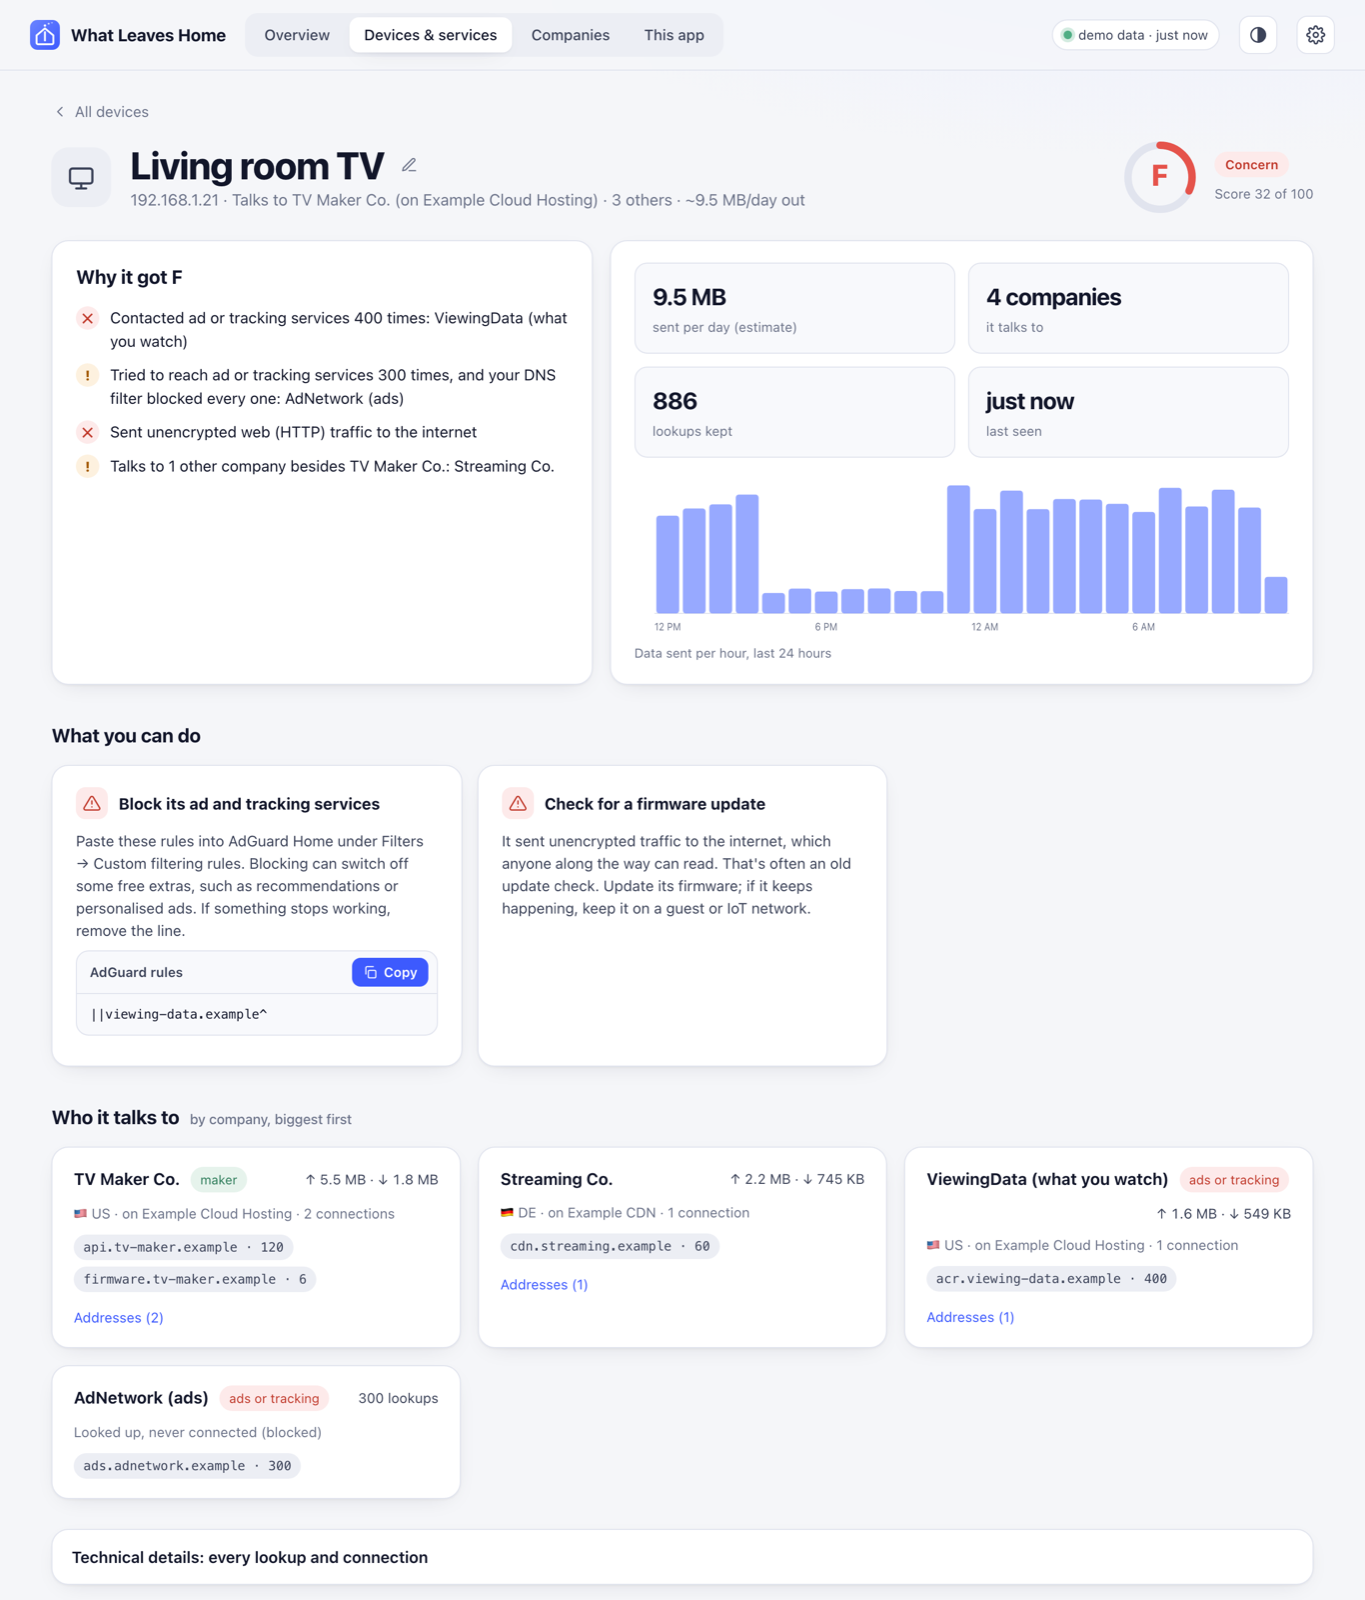
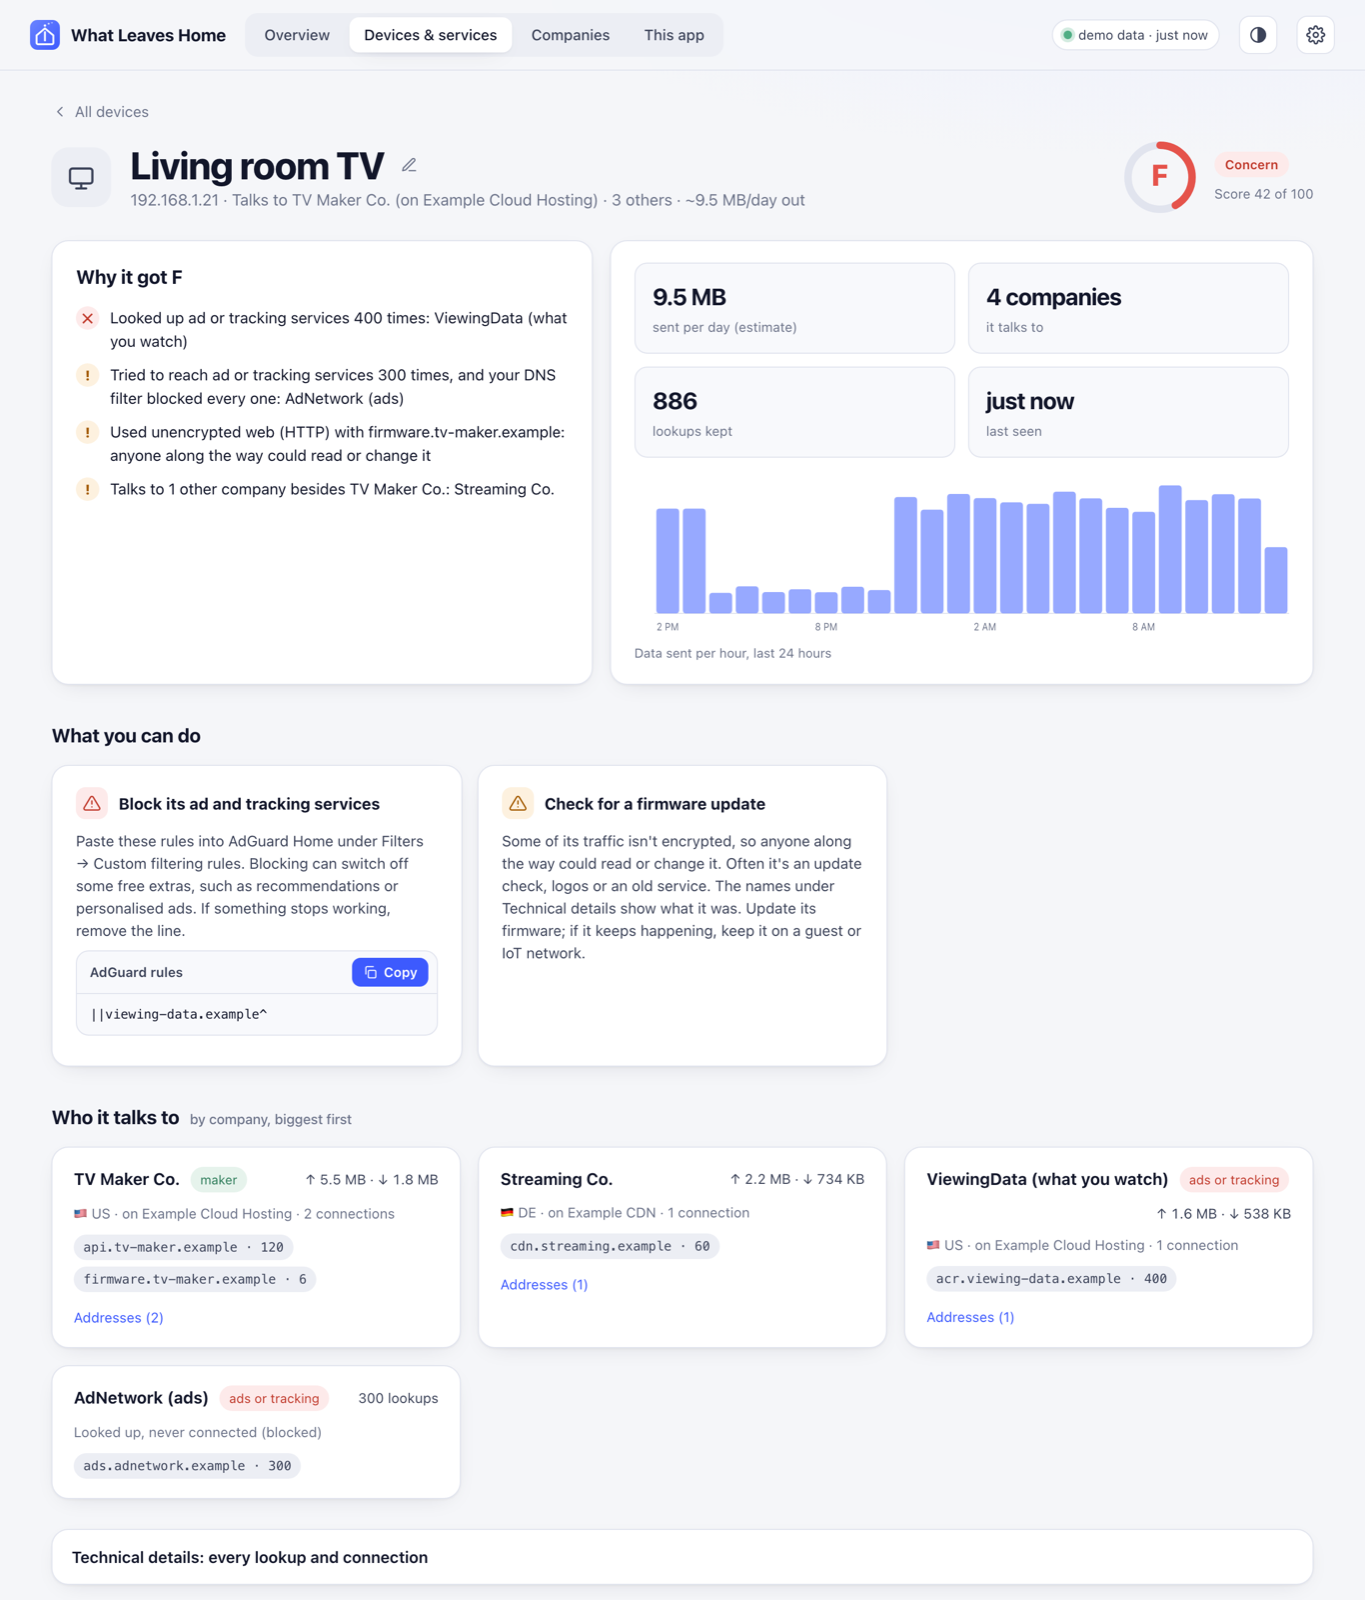
Be exact about TV findings: lookups, not contacts; HTTP says what for
Checking the first TV data showed two findings overstated:

- 'Unencrypted traffic' counted certificate checks (OCSP at DigiCert),
  which are plain HTTP by design on every device, and didn't say what the
  rest was: channel logos and an update download, a weakness rather than
  data about you. Certificate checks no longer count. The finding names
  what used plain HTTP, and weighs 10 points instead of 20.
- 'Contacted ad or tracking services N times' counted lookups. It now
  says 'looked up', which is what was seen.

README wording, the grading note and the screenshots follow.

diff --git a/whatleaves/analysis.py b/whatleaves/analysis.py
@@ -25,6 +25,13 @@ DOH_NAMES = ("dns.google", "cloudflare-dns.com", "one.one.one.one", "dns.quad9.n
              "dns.nextdns.io", "doh.dns.apple.com", "mozilla.cloudflare-dns.com")
 
 
+def plaintext_conns(raw):
+    """Unencrypted connections to the internet (web, FTP, Telnet, video). Certificate checks
+    (OCSP, CRL) use plain HTTP by design, on every device, so they don't count."""
+    return [c for c in raw["connections"] if not c["local"] and c["proto"] == "tcp" and c["dport"] in PLAINTEXT_PORTS
+            and not (c["names"] and all(is_cert_check(n) for n in c["names"]))]
+
+
 def outside_dns(raw):
     """Connections where a device asks a DNS server on the internet itself, going around the
     DNS filter: plain DNS (53), DNS over TLS (853), or a known DNS-over-HTTPS service.
@@ -208,8 +215,8 @@ def assess(raw, comps, server=False):
     others = [c for c in makers[1:] if not (own and c["company"] in CLOUD_PLATFORMS)]
     bypass = outside_dns(raw)
     unexplained = [c for c in raw["connections"] if not c["local"] and not c["names"] and c not in bypass]
-    plaintext = sorted({c["dport"] for c in raw["connections"]
-                        if not c["local"] and c["proto"] == "tcp" and c["dport"] in PLAINTEXT_PORTS})
+    plain = plaintext_conns(raw)
+    plaintext = sorted({c["dport"] for c in plain})
     remote = [c for c in raw["connections"] if not c["local"]]
     days = _span_days(min((c["first"] for c in remote), default=None), max((c["last"] for c in remote), default=None))
     per_day = sum(c["bytes_out"] for c in remote) / days
@@ -218,16 +225,19 @@ def assess(raw, comps, server=False):
         n = sum(c["lookups"] for c in tracking)
         score -= 35 if n >= 20 else 20
         names = ", ".join(c["company"] for c in tracking[:3])
-        reasons.append({"level": "bad", "text": f"Contacted ad or tracking services {plural(n, 'time')}: {names}"})
+        reasons.append({"level": "bad", "text": f"Looked up ad or tracking services {plural(n, 'time')}: {names}"})
     if tried:
         n = sum(c["lookups"] for c in tried)
         score -= 5
         reasons.append({"level": "warn", "text": f"Tried to reach ad or tracking services {plural(n, 'time')}, and your DNS filter "
                         f"blocked every one: {', '.join(c['company'] for c in tried[:3])}"})
     if plaintext:
-        score -= 20
-        reasons.append({"level": "bad", "text": "Sent unencrypted " +
-                        ", ".join(PLAINTEXT_PORTS[p] for p in plaintext) + " traffic to the internet"})
+        # What it was for matters: logos or an update download are a weakness, not data about you.
+        score -= 10
+        where = sorted({c["names"][0] if c["names"] else c["dst"] for c in plain})
+        reasons.append({"level": "warn", "text": "Used unencrypted " + ", ".join(PLAINTEXT_PORTS[p] for p in plaintext)
+                        + " with " + ", ".join(where[:3]) + (f" and {len(where) - 3} more" if len(where) > 3 else "")
+                        + ": anyone along the way could read or change it"})
     if others and not server:
         score -= min(8 * len(others), 24)
         reasons.append({"level": "warn", "text": f"Talks to {len(others)} other "
@@ -289,11 +299,12 @@ def actions_for(raw, comps, a):
                      "text": "Your AdGuard is already refusing its ad and tracking lookups: "
                              + ", ".join(sorted(already)) + ".", "rules": []})
     remote = [c for c in raw["connections"] if not c["local"]]
-    if any(c["proto"] == "tcp" and c["dport"] in PLAINTEXT_PORTS for c in remote):
-        acts.append({"level": "bad", "title": "Check for a firmware update",
-                     "text": "It sent unencrypted traffic to the internet, which anyone along the way can read. "
-                             "That's often an old update check. Update its firmware; if it keeps happening, keep "
-                             "it on a guest or IoT network.", "rules": []})
+    if plaintext_conns(raw):
+        acts.append({"level": "warn", "title": "Check for a firmware update",
+                     "text": "Some of its traffic isn't encrypted, so anyone along the way could read or change it. "
+                             "Often it's an update check, logos or an old service. The names under Technical "
+                             "details show what it was. Update its firmware; if it keeps happening, keep it on "
+                             "a guest or IoT network.", "rules": []})
     if outside_dns(raw):
         acts.append({"level": "bad", "title": "Make it use your DNS filter",
                      "text": "It has its own DNS server built in, so some of its lookups skip AdGuard or Pi-hole and "

diff --git a/tests/test_whatleaves.py b/tests/test_whatleaves.py
@@ -491,6 +491,11 @@ class Naming(unittest.TestCase):
         self.assertTrue(is_cert_check("ocsp.digicert.com") and is_cert_check("r3.o.lencr.org"))
         self.assertFalse(is_cert_check("status.example.com") or is_cert_check("api.samsung.com"))
 
+    def test_certificate_checks_are_not_unencrypted_findings(self):
+        conn = lambda names: {"local": False, "names": names, "dport": 80, "proto": "tcp", "dst": "203.0.113.5"}
+        self.assertEqual(analysis.plaintext_conns({"connections": [conn(["ocsp.digicert.com"])]}), [])
+        self.assertEqual(len(analysis.plaintext_conns({"connections": [conn(["aic-ngfts.lge.com"])]})), 1)
+
     def test_outside_dns_is_its_own_finding(self):
         conn = lambda dport, names=(): {"local": False, "names": list(names), "dport": dport, "proto": "udp", "dst": "8.8.8.8"}
         raw = {"connections": [conn(53), conn(443)], "lookups": []}

diff --git a/README.md b/README.md
@@ -8,14 +8,14 @@ Status: early (0.8). Grades are a first version: simple rules, always shown with
 
 <picture>
   <source media="(prefers-color-scheme: dark)" srcset="docs/screenshots/overview-dark.png">
-  <img alt="The overview: devices graded A to F, with the biggest finding first. Here a TV contacted a viewing-data service 400 times." src="docs/screenshots/overview.png">
+  <img alt="The overview: devices graded A to F, with the biggest finding first. Here a TV looked up a viewing-data service 400 times." src="docs/screenshots/overview.png">
 </picture>
 
 <sub>Screenshots are from the live demo, with made-up devices.</sub>
 
 ## What you get
 
-- **A verdict per device, in plain words.** An A to F grade with the reasons ("Contacted ad or tracking services 400 times", "Every connection was encrypted", "Talks only to LG"), and the one finding worth looking at first.
+- **A verdict per device, in plain words.** An A to F grade with the reasons ("Looked up ad or tracking services 400 times", "Every connection was encrypted", "Talks only to LG"), and the one finding worth looking at first.
 - **Companies and countries, not IP addresses.** "LG, hosted on Amazon Web Services, US", with the exact names and addresses one click away. Destinations nothing looked up are still labelled by what they are ("Time server", "Encrypted messaging", "Tailscale relays").
 - **What to do about it.** Ready-to-paste block rules for AdGuard Home or Pi-hole for the trackers that got through, plus a firmware or settings nudge where it fits. The overview gathers one block list for the whole home.
 - **Your home servers, app by app.** A small agent on each server tells apart which container or service phones home to whom: Jellyfin, Home Assistant, the media apps, anything in Docker or systemd.
@@ -146,7 +146,7 @@ Connections and data volumes need a source that records them, such as the collec
 
 ### How grades work
 
-Every device starts at 100. Points come off for: ad or tracking services (blocked by your filter, or on a built-in list), unencrypted web traffic to the internet, talking to companies other than its maker, connecting to addresses it never looked up, and uploading a lot. A is 90 and up and looks fine; B and C are worth a look; D and F are a concern. The reasons are always listed with the grade. This is a first version, and suggestions are welcome.
+Every device starts at 100. Points come off for: ad or tracking services (blocked by your filter, or on a built-in list), using its own DNS server to go around your filter, unencrypted web traffic to the internet (certificate checks, which are plain HTTP on every device, don't count), talking to companies other than its maker, connecting to addresses it never looked up, and uploading a lot. A is 90 and up and looks fine; B and C are worth a look; D and F are a concern. The reasons are always listed with the grade. This is a first version, and suggestions are welcome.
 
 ### Company names and countries
 
